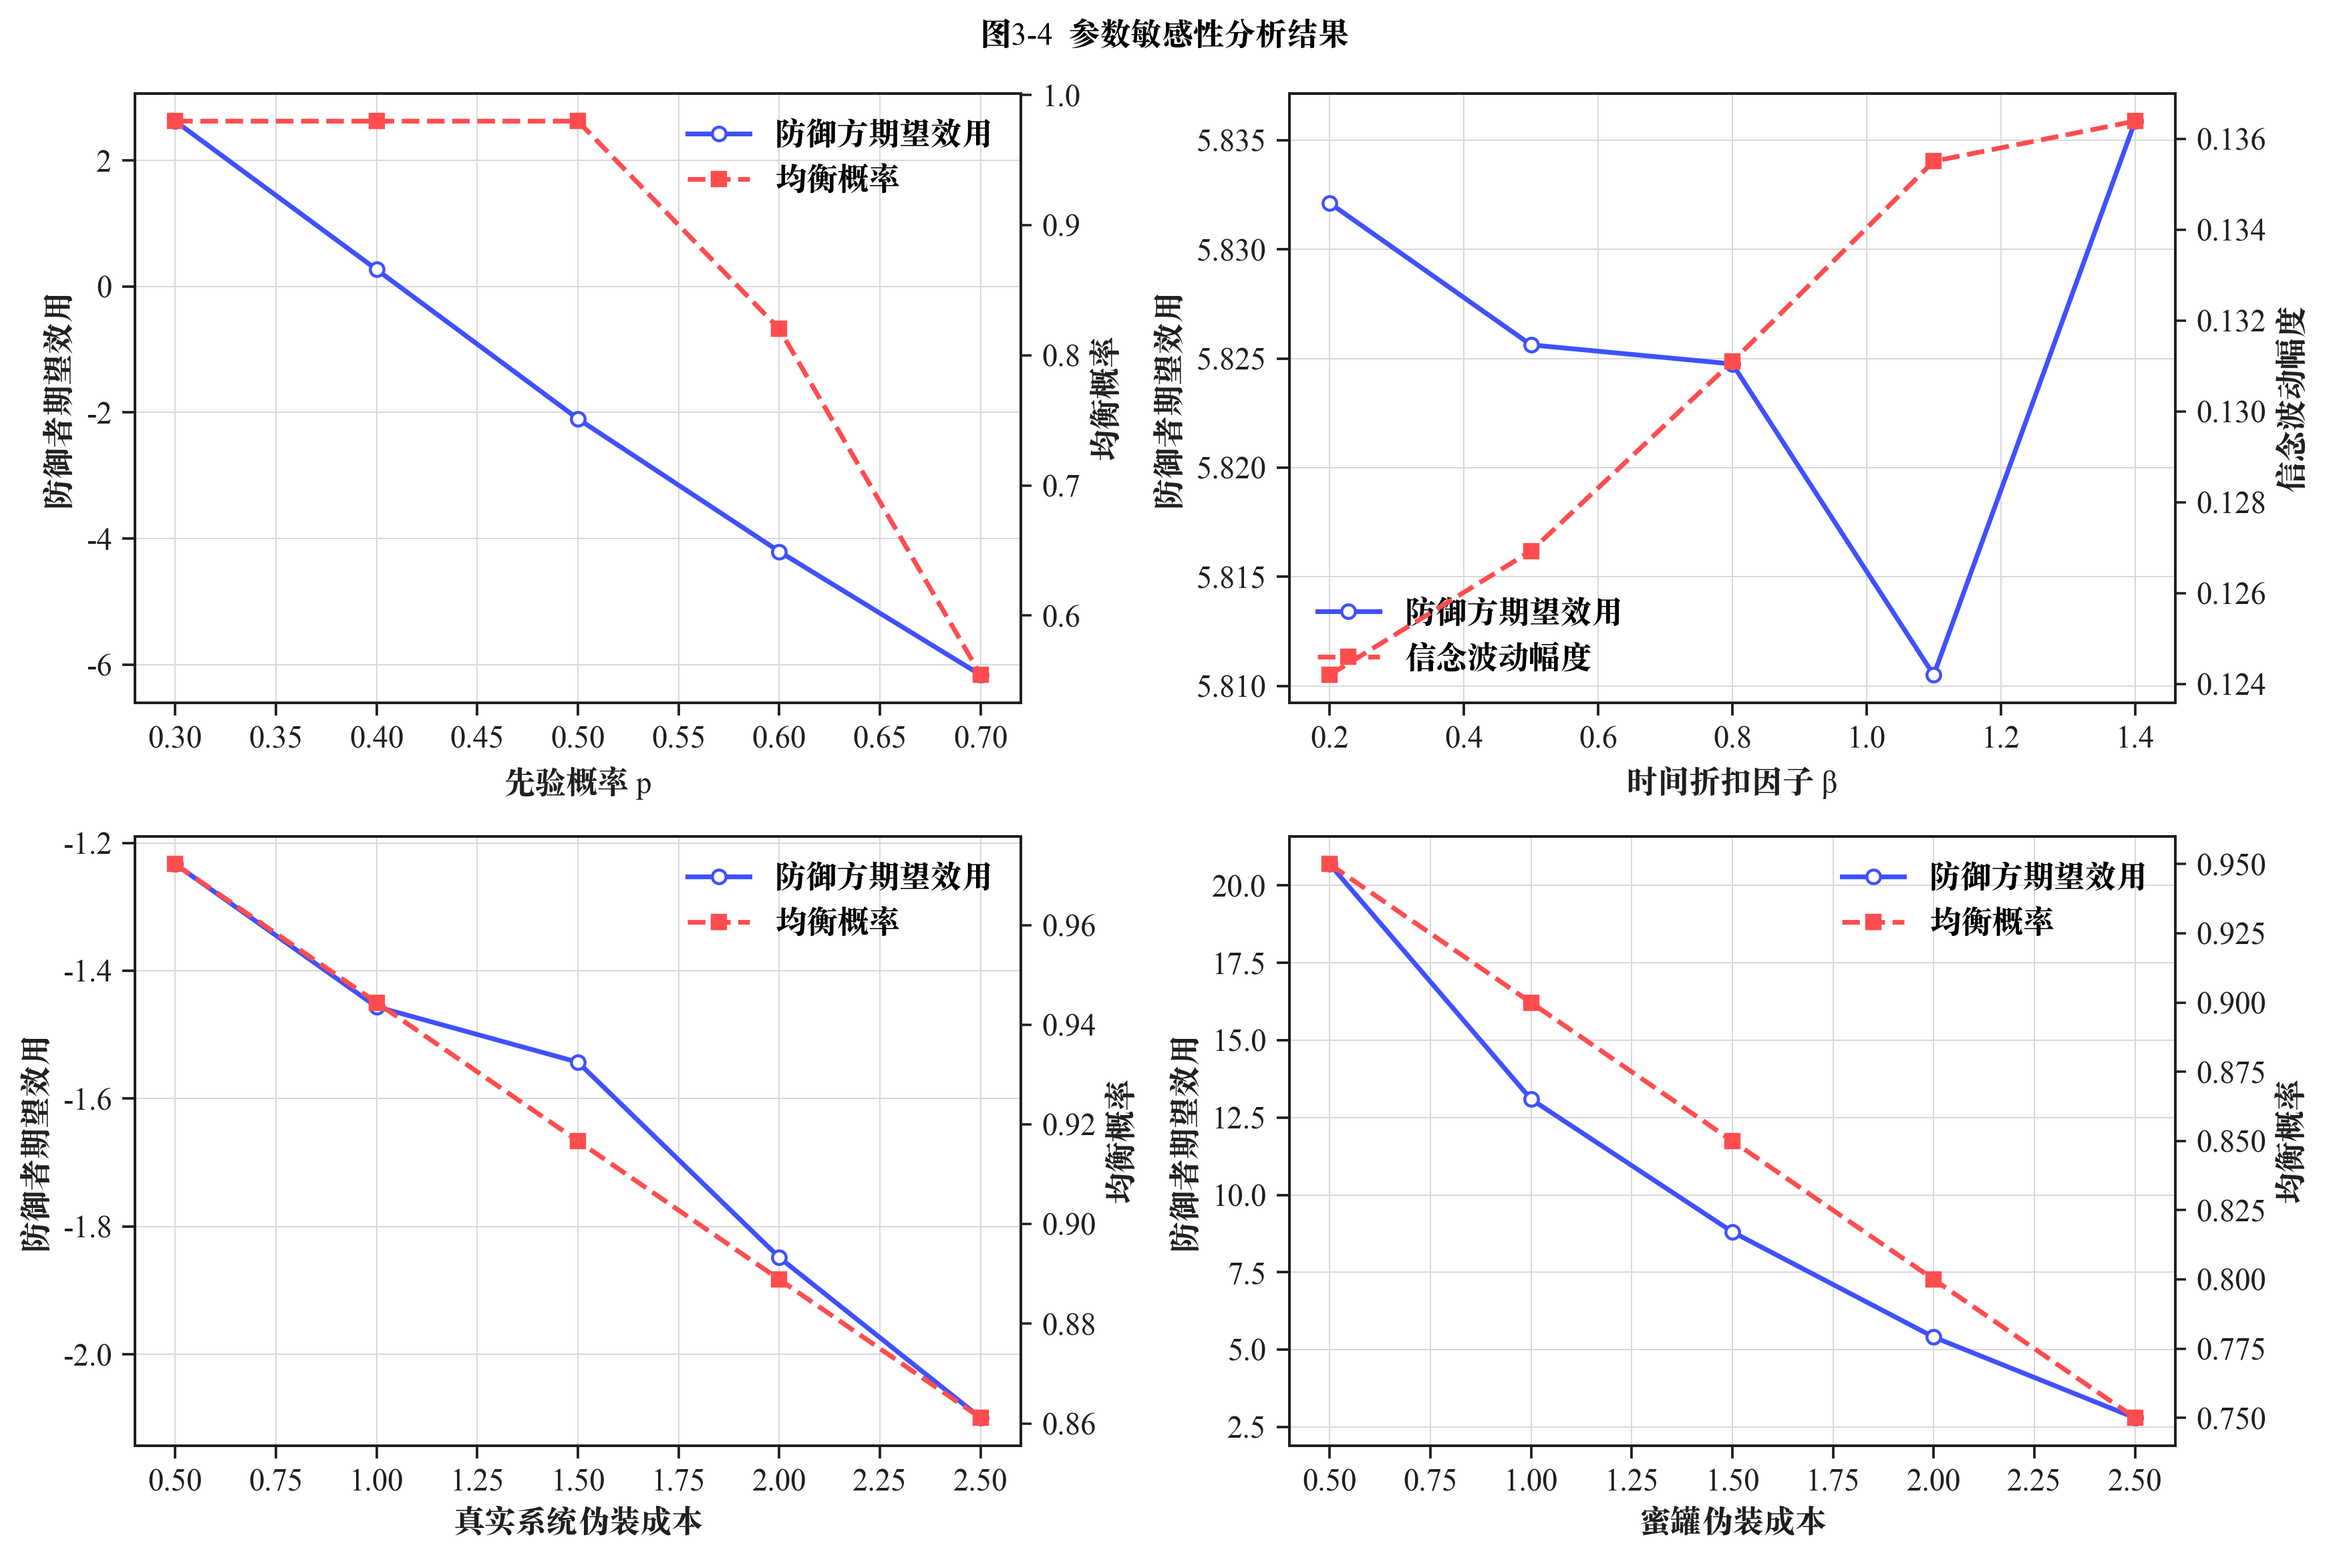
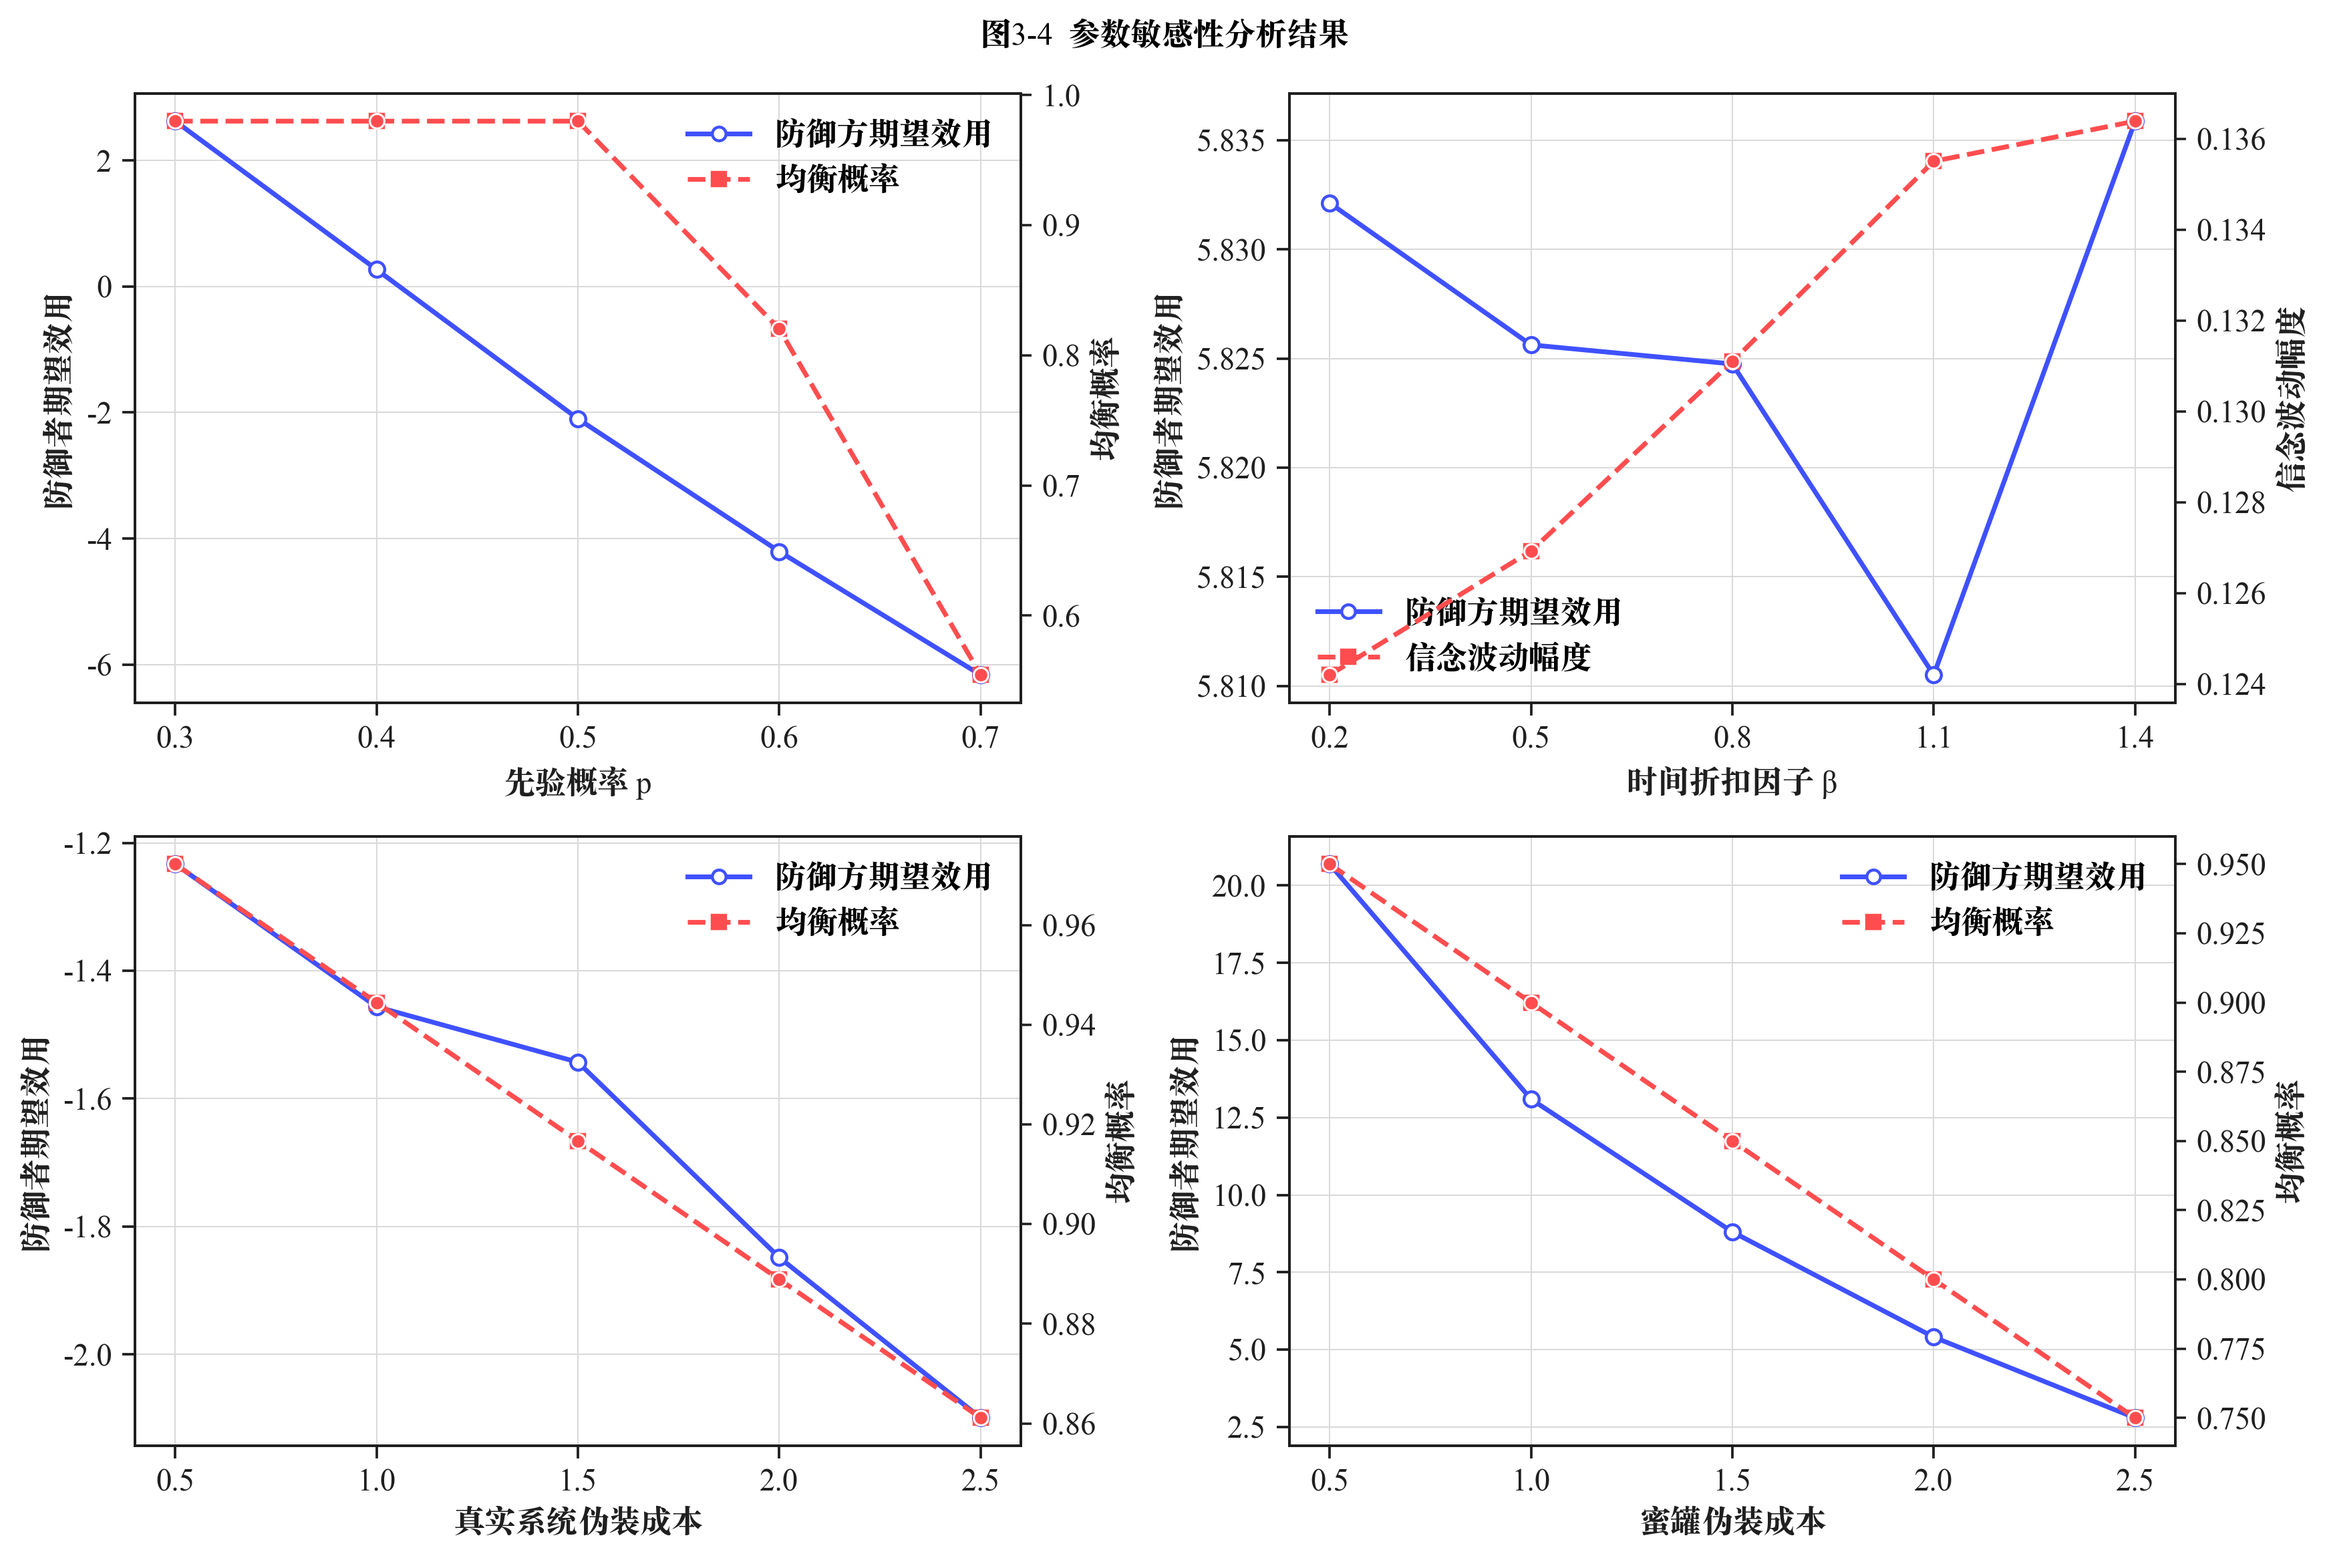
Fix sensitivity plot marker visibility

diff --git a/sg_deception_simulation/plot_results.py b/sg_deception_simulation/plot_results.py
@@ -338,8 +338,18 @@ def plot_sensitivity_curves(sensitivity: dict) -> None:
             marker="o",
             hollow=True,
         )
+        ax.scatter(
+            x,
+            y1,
+            s=26,
+            facecolors="white",
+            edgecolors=COLOR_BASELINE,
+            linewidths=1.0,
+            zorder=4,
+        )
         ax.set_xlabel(xlabel, fontproperties=FONT_CN, fontsize=10.5)
         ax.set_ylabel("防御者期望效用", fontproperties=FONT_CN, fontsize=10.5)
+        ax.set_xticks(x)
         ax.grid(True, axis="both")
         apply_academic_axes_style(ax, x_font=FONT_EN, y_font=FONT_EN)
 
@@ -352,6 +362,15 @@ def plot_sensitivity_curves(sensitivity: dict) -> None:
             label=secondary_label,
             marker="s",
             linestyle="--",
+        )
+        ax2.scatter(
+            x,
+            y2,
+            s=24,
+            c=COLOR_PBNE,
+            edgecolors="white",
+            linewidths=0.7,
+            zorder=5,
         )
         ax2.set_ylabel(secondary_label, fontproperties=FONT_CN, fontsize=10.5)
         for label in ax2.get_yticklabels():
